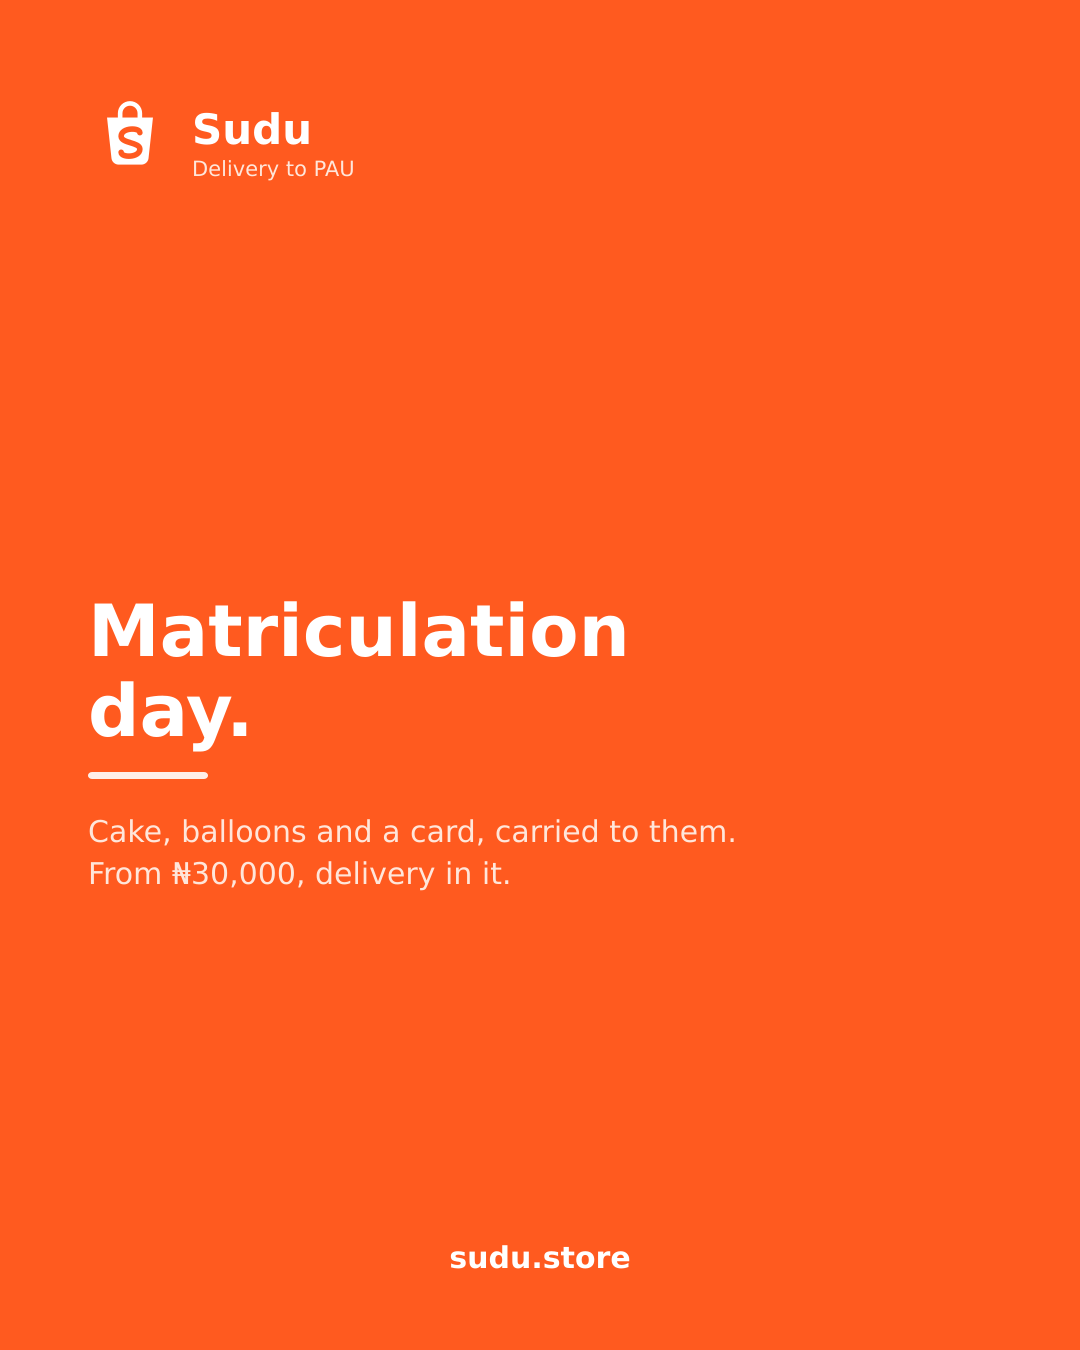
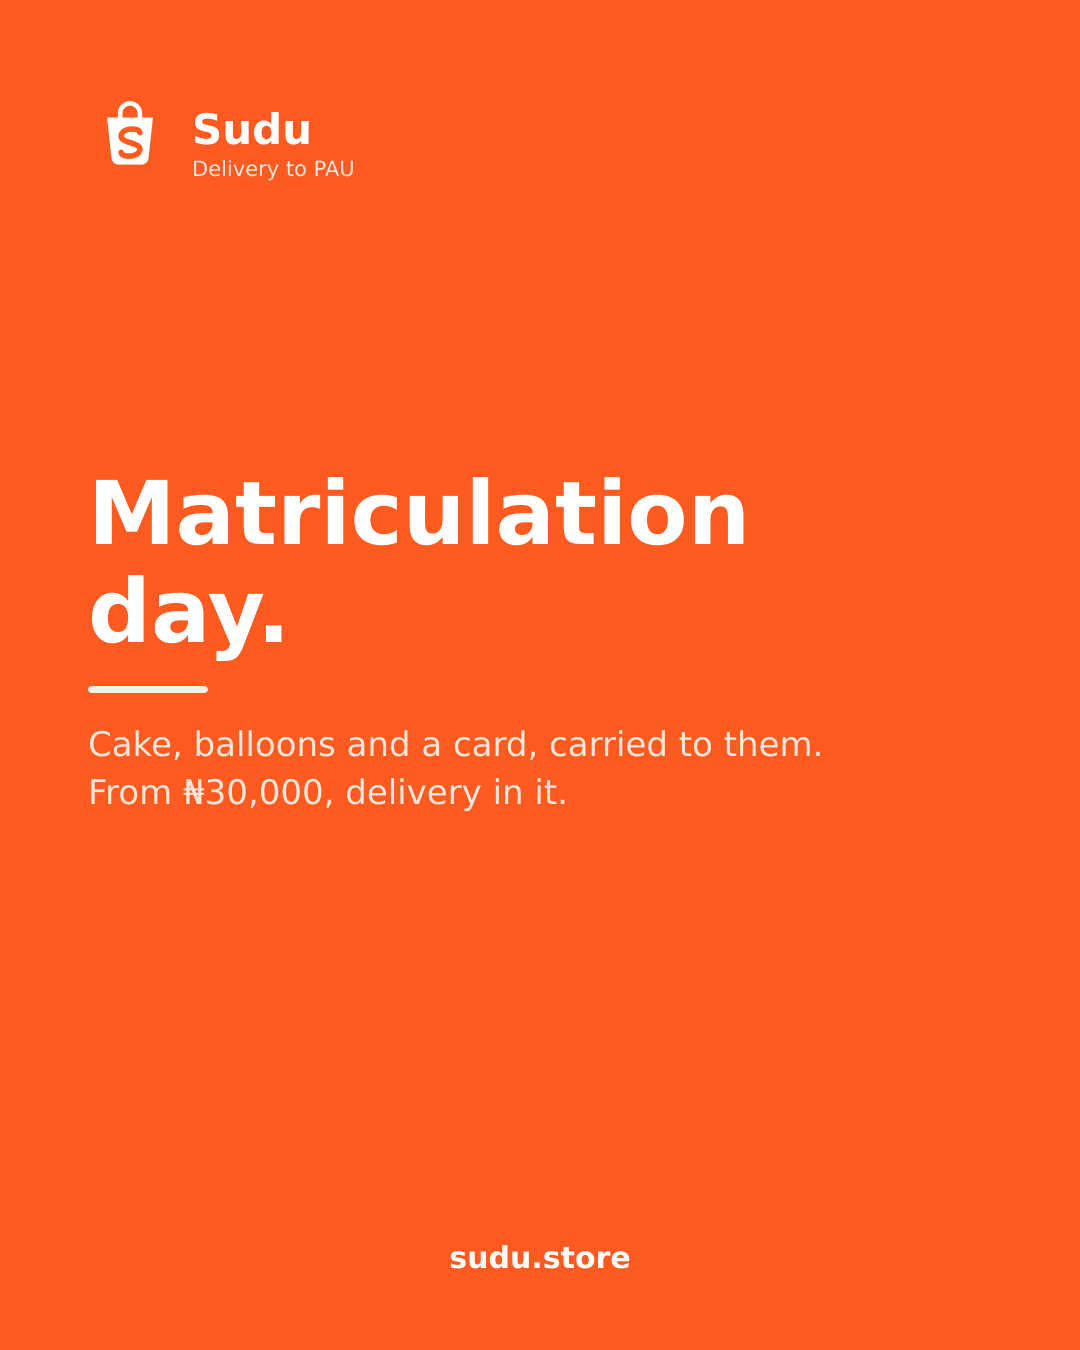
Set the posters so a crop still finds something to read
Every place these get shared crops them, and each one crops differently:
the profile grid takes a portrait slice, a chat preview takes a squarer
one off an image somebody else already cropped. A poster that is mostly
empty ground survives none of that, because the crop lands on the empty
part and the preview says nothing at all.

So the type fills the frame now rather than sitting small in the middle
of it, and the words sit a little above centre rather than dead centre,
which is right on a page nobody crops and wrong on every page these
actually appear on.

Claude-Session: https://claude.ai/code/session_01A62TtZ3majrmppVL3Tnmwq

Changed region(s): [[0.0611, 0.3422, 0.7028, 0.6533], [0.5194, 0.5289, 0.7639, 0.56]]

diff --git a/marketing/make-instagram.py b/marketing/make-instagram.py
@@ -106,7 +106,7 @@ class Poster:
         print("wrote", path)
 
 
-def statement(dark, lines, under, size=76):
+def statement(dark, lines, under, size=96):
     """A sentence, set large. The whole poster is the sentence.
 
     Sat in the middle of the space the mark and the address leave, rather
@@ -115,8 +115,13 @@ def statement(dark, lines, under, size=76):
     them a foot deep."""
     p = Poster(dark)
     step = int(size * 1.12)
-    tall = step * len(lines) + 34 + 12 + 42 * len(under)
-    top = TOP + max(0, (FLOOR - TOP - tall) // 2)
+    tall = step * len(lines) + 34 + 12 + 48 * len(under)
+    # A third of the slack above rather than half. Dead centre is right on
+    # a page nobody crops, and every place these get shared crops them:
+    # a preview that catches only the empty half is a preview that says
+    # nothing, so the words sit a little above the middle where more of the
+    # crops look.
+    top = TOP + max(0, int((FLOOR - TOP - tall) * 0.34))
 
     y = top + size
     for line in lines:
@@ -129,8 +134,8 @@ def statement(dark, lines, under, size=76):
           % (PAD, y, p.ink, "0.9" if dark else "1"))
     y += 70
     for line in under:
-        p.add(text(PAD, y, line, 30, "normal", p.soft))
-        y += 42
+        p.add(text(PAD, y, line, 34, "normal", p.soft))
+        y += 48
     return p
 
 
@@ -231,7 +236,7 @@ posters.append(("07-matriculation", statement(
     ["Matriculation", "day."],
     ["Cake, balloons and a card, carried to them.",
      "From ₦30,000, delivery in it."],
-    size=72,
+    size=88,
 )))
 
 posters.append(("08-birthday", statement(
@@ -239,7 +244,7 @@ posters.append(("08-birthday", statement(
     ["A birthday,", "at PAU."],
     ["A cake, pizza and drinks, on the day.",
      "From ₦25,600, delivery in it."],
-    size=72,
+    size=92,
 )))
 
 posters.append(("09-send-something", statement(
@@ -247,7 +252,7 @@ posters.append(("09-send-something", statement(
     ["Send something", "to someone", "at PAU."],
     ["Pay from anywhere. A card link in pounds",
      "or dollars, and we carry it to their block."],
-    size=62,
+    size=84,
 )))
 
 for name, p in posters:
